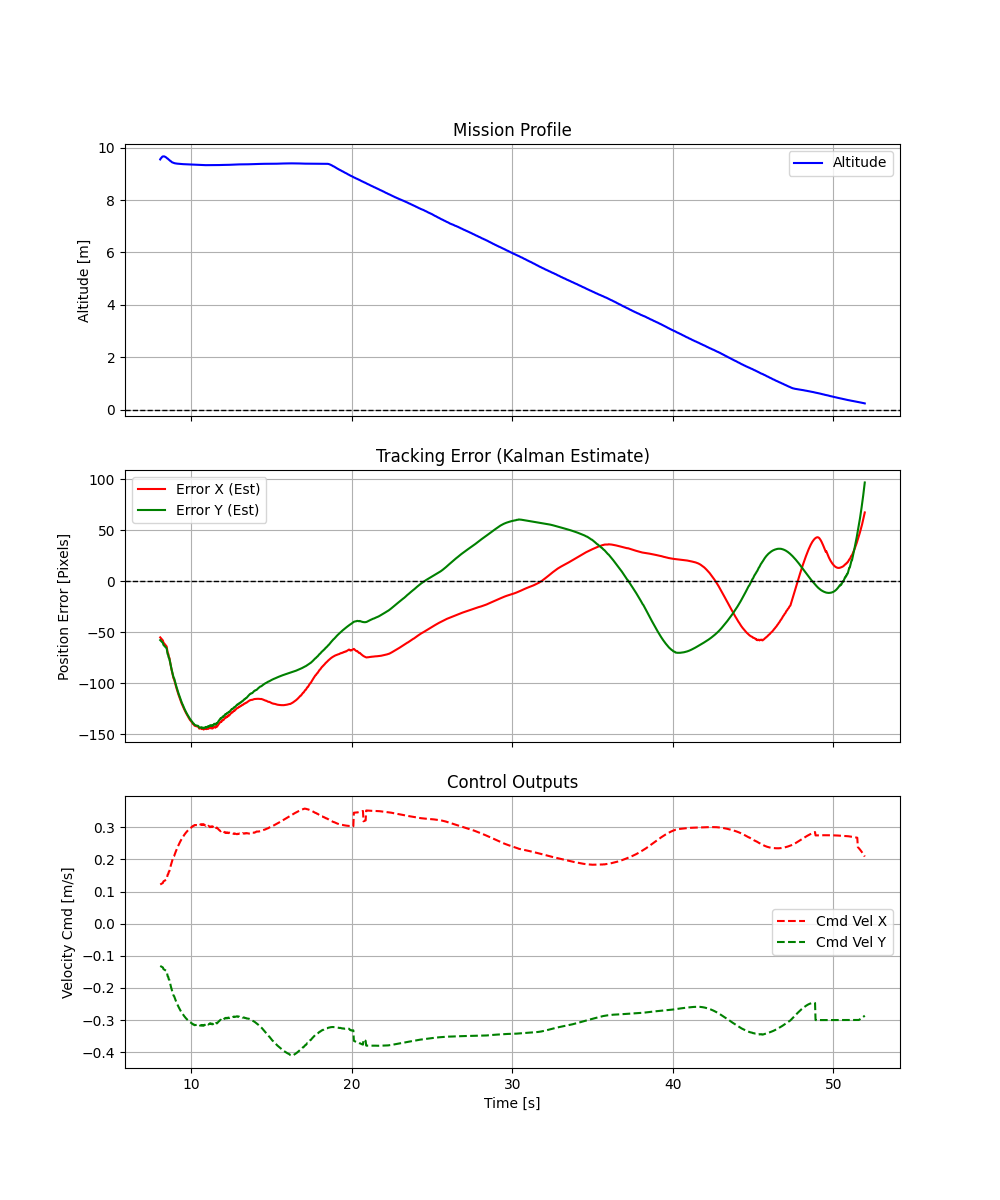
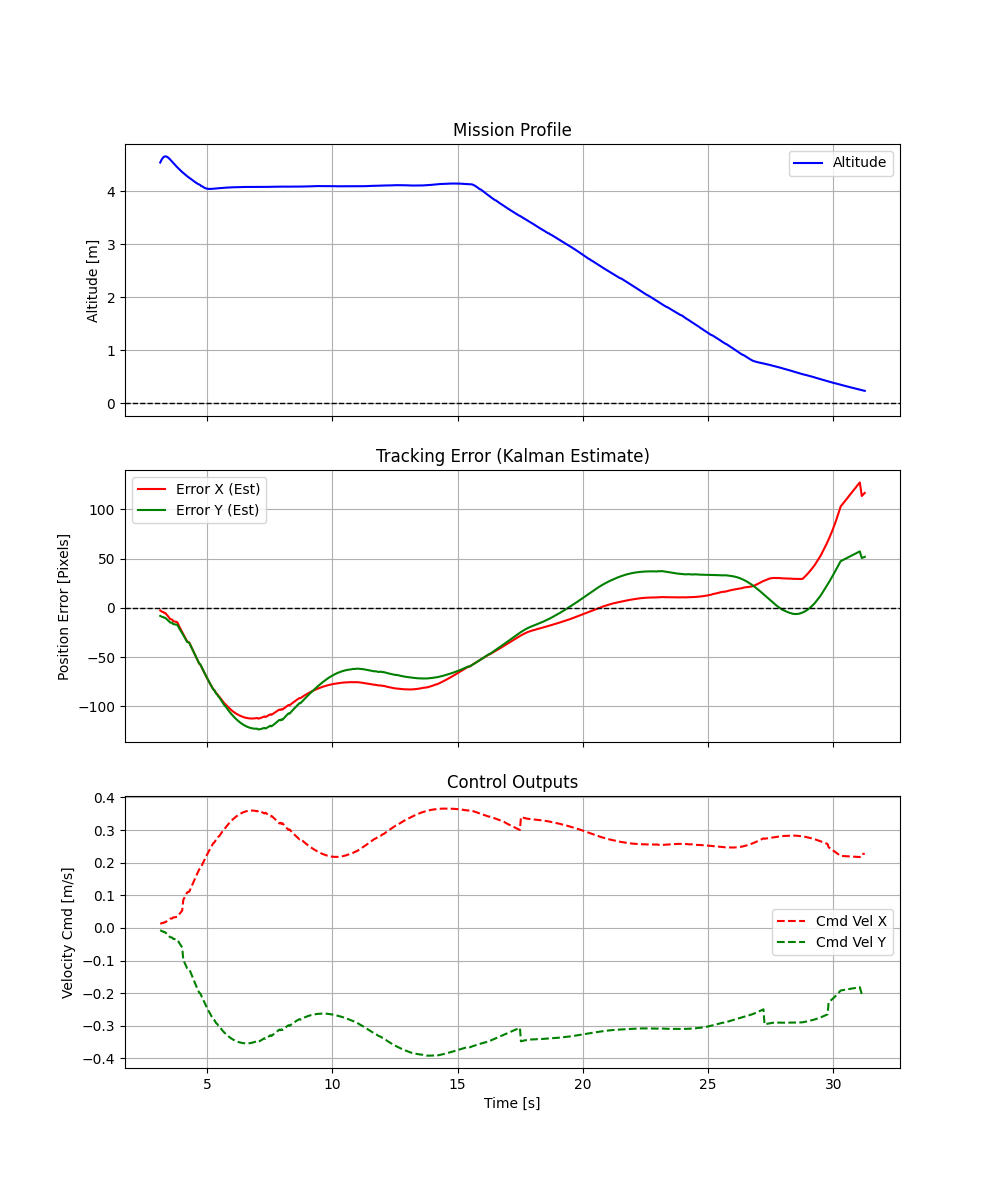
Solving Camera probolem and resolution, tuning landing controller for better performance in HD stream, and improving logging for better analysis.

diff --git a/landing_controller.py b/landing_controller.py
@@ -18,32 +18,40 @@ except ImportError:
     print("ERRORE CRITICO")
     sys.exit(1)
 
-FREQ = 30.0             #upadating at 30Hz for better performance with HD stream
+FREQ = 25.0             #upadating at 30Hz for better performance with HD stream
 DT = 1.0 / FREQ        
-TARGET_ALTITUDE = 10.0   # Target altitude for initial hover before descent (meters)
-ALIGN_THRESHOLD = 80    # Pixel tolerance to start descent
+TARGET_ALTITUDE = 5   # Target altitude for initial hover before descent (meters)
+ALIGN_THRESHOLD = 60    # Pixel tolerance to start descent
 
 # Camera Params (gz_x500_vision standard + HD)
-CAM_W, CAM_H = 1280, 720
+CAM_W, CAM_H = 640,480
 CENTER_X, CENTER_Y = CAM_W // 2, CAM_H // 2
-
+aruco_dict = cv2.aruco.getPredefinedDictionary(cv2.aruco.DICT_4X4_50)
+parameters = cv2.aruco.DetectorParameters()
+detector = cv2.aruco.ArucoDetector(aruco_dict, parameters)
 # --- ZOH as buffer ---
 class SharedBuffer:
     def __init__(self):
         self.measurement = None 
+        self.frame = None
         self.new_data = False
         self.last_receive_time = 0.0
 
-    def write(self, u, v):
-        self.measurement = np.array([[u], [v]])
+    def write(self, u, v, frame):
+        if u is not None and v is not None:
+            self.measurement = np.array([[u], [v]])
+        else:
+            self.measurement = None
+        self.frame = frame
         self.new_data = True
         self.last_receive_time = time.time()
 
     def read(self):
         data = self.measurement
         is_fresh = self.new_data
+        frame = self.frame
         self.new_data = False
-        return data, is_fresh
+        return data, frame, is_fresh
 
 # --- KALMAN FILTER ---
 class LandingKalmanFilter:
@@ -79,9 +87,10 @@ def vision_callback(msg):
         frame_display = cv2.cvtColor(img, cv2.COLOR_RGB2BGR)
         gray = cv2.cvtColor(frame_display, cv2.COLOR_BGR2GRAY)
         
-        corners, ids, _ = cv2.aruco.detectMarkers(gray, cv2.aruco.getPredefinedDictionary(cv2.aruco.DICT_4X4_50))
-        
+        corners, ids, _ = detector.detectMarkers(gray)
+        cx, cy = None, None
         if ids is not None:
+            cv2.aruco.drawDetectedMarkers(frame_display, corners, ids)
             ids_list = ids.flatten().tolist()
             if 4 in ids_list:
                 idx = ids_list.index(4)
@@ -91,16 +100,15 @@ def vision_callback(msg):
                 
             else:
                 idx = -1
-
+    
             if idx != -1:
                 c = corners[idx][0]
-                cx = int(np.mean(c[:, 0])) - CENTER_X
-                cy = int(np.mean(c[:, 1])) - CENTER_Y
-                shared_buffer.write(cx, cy) 
-                
-        # Opening The window here to avoid issues with Gazebo's rendering loop and OpenCV's imshow
-        cv2.imshow("Drone View", frame_display)
-        cv2.waitKey(1)
+                dyn_center_x = msg.width // 2
+                dyn_center_y = msg.height // 2
+                cx = int(np.mean(c[:, 0])) -dyn_center_x
+                cy = int(np.mean(c[:, 1])) - dyn_center_y
+                cv2.circle(frame_display, (dyn_center_x + cx, dyn_center_y + cy), 5, (0, 0, 255), -1)
+        shared_buffer.write(cx, cy, frame_display) 
     except Exception:
         pass
 
@@ -127,8 +135,8 @@ async def run():
     asyncio.create_task(telemetry_loop(drone))
 
     # PID Gains (30Hz + HD)
-    KP_X, KD_X = 0.0005, 0.002 
-    KP_Y, KD_Y = 0.0005, 0.002
+    KP_X, KD_X = 0.0012, 0.003
+    KP_Y, KD_Y = 0.001, 0.003
     KI = 0.00035   # <--- NUOVO: Integrale Gain
     
     cruise_altitude_reached = False 
@@ -171,8 +179,10 @@ async def run():
     start_log_time = time.time()
     while True:
     
-        measurement, is_new = shared_buffer.read()
-        
+        measurement, frame_to_show, is_new = shared_buffer.read()
+        if frame_to_show is not None:
+            cv2.imshow("Drone Gazebo Vision", frame_to_show)
+            cv2.waitKey(1)
         # Kalman Prediction & Update
         est_state = kf.predict() 
         if is_new and measurement is not None:
@@ -185,11 +195,11 @@ async def run():
         # --- Parallax Correction ---
         CAMERA_OFFSET_X = -0.05   # Camera forward of COM 
         CAMERA_OFFSET_Z = 0.15   # Camera lower than COM 
-        FOCAL_LENGTH    = 1100.0 # Pixel ( 720p/1080p. Se 640x480 usa ~550)
+        FOCAL_LENGTH    = 550.0 # Pixel ( 720p/1080p. Se 640x480 usa ~550)
 
         # 1. Calculo Altitudine Effettiva della Camera
         # If the camera is below the COM, the effective altitude for parallax is above, it's lower.
-        cam_alt = max(current_alt - CAMERA_OFFSET_Z, 0.7) 
+        cam_alt = max(current_alt - CAMERA_OFFSET_Z, 0.4) 
         
         # 2. Offset pixel to meter conversion (parallax)
         expected_pixel_offset = (CAMERA_OFFSET_X * FOCAL_LENGTH) / cam_alt
@@ -231,17 +241,17 @@ async def run():
             #Damper is the scale of the calculated force, 
             # in this case we will use 40% of calculated, avoid shaking
                 # Gain Scheduling
-                if current_alt < 0.65:
-                    dampener = 0.1
-                    max_speed_xy = 0.3 
+                if current_alt < 0.75:
+                    dampener = 0.35
+                    max_speed_xy = 0.4 
                 else:
                     dampener = 1.0
-                    max_speed_xy = 1.1
+                    max_speed_xy = 1.4
 
                 # --- CALCOLO PID COMPLETO (P + I + D + FF) ---
                 
                 # --- Cutting Integral last meter (FREEZE LOGIC) ---
-                INTEGRAL_CUTOFF_HEIGHT = 0.8
+                INTEGRAL_CUTOFF_HEIGHT = 0.7
                 
                 if current_alt > INTEGRAL_CUTOFF_HEIGHT:
                     # FFlying above cutoff, integral is active
@@ -255,9 +265,9 @@ async def run():
                     
                     pass
                 # 3. Feed-Forward Gain (Stima Velocità)
-                if abs(est_x) < 40 or abs(est_y) < 40:
+                if abs(est_x) < 25 or abs(est_y) < 25:
                     ff_gain = 0.0  # Se siamo molto vicini, disabiliti
-                elif current_alt < 1.5:
+                elif current_alt < 1.05:
                     ff_gain = 0.0015  # Guadagno più conservativo in discesa
                 else:
                     ff_gain = 0.0035 
@@ -283,7 +293,7 @@ async def run():
                 cmd_y = np.clip(cmd_y, -max_speed_xy, max_speed_xy)
 
                 # Gestione Discesa
-                current_align_thresh = ALIGN_THRESHOLD if current_alt > 0.85 else (ALIGN_THRESHOLD * 3)
+                current_align_thresh = ALIGN_THRESHOLD if current_alt > 0.85 else (ALIGN_THRESHOLD * 2.5)
                 is_aligned = (abs(est_x) < current_align_thresh and abs(est_y) < current_align_thresh)
                 
                 # --- LOGGING (Dentro il While) ---
